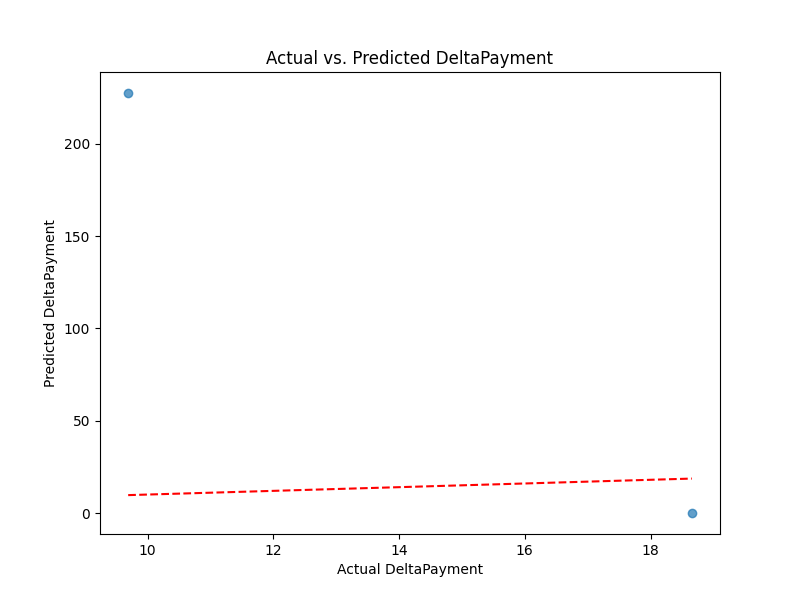
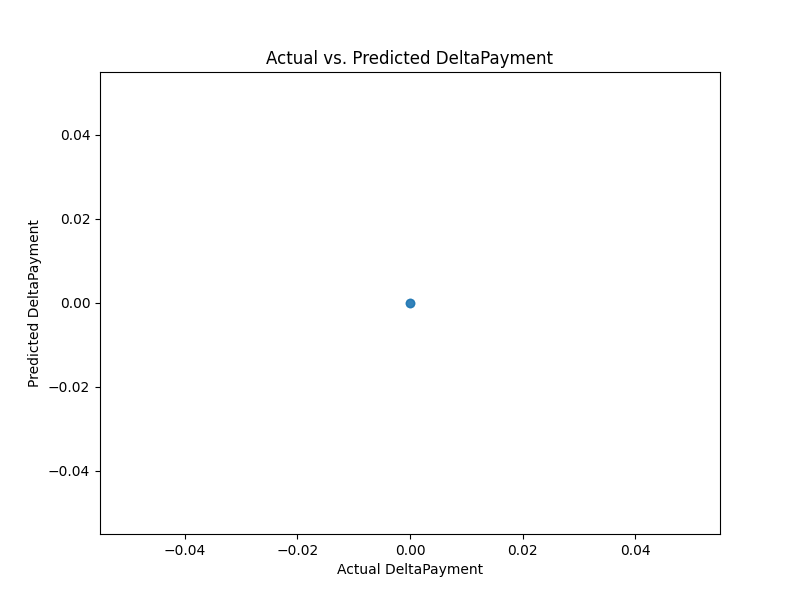
Update PatientGender column values and generate synthetic data

diff --git a/main.py b/main.py
@@ -46,7 +46,7 @@ else:
                 "PatientAge": np.random.randint(18, 100, n_samples),
                 "PatientGender": np.random.choice(["Male", "Female"], n_samples),
                 "DaysToProcess": np.random.randint(1, 30, n_samples),
-                "ClaimAmount": np.random.uniform(100, 10000, n_samples),
+                "ClaimAmount": np.random.uniform(100, n_samples),
             }
         )
     else:
@@ -71,7 +71,7 @@ else:
             if row["PatientGender"] == "Male":
                 delta -= np.random.uniform(50, 200)
             # Introduce randomness
-            delta += np.random.normal(0, 50)
+            # delta += np.random.normal(0, 50)
             return max(delta, 0)  # Delta should not be negative
         else:
 
